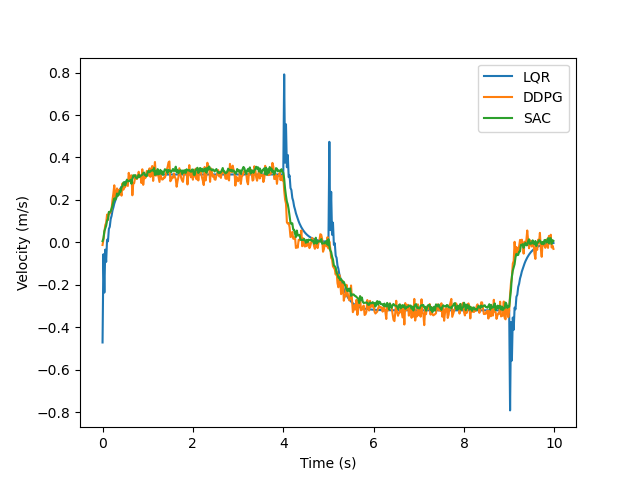
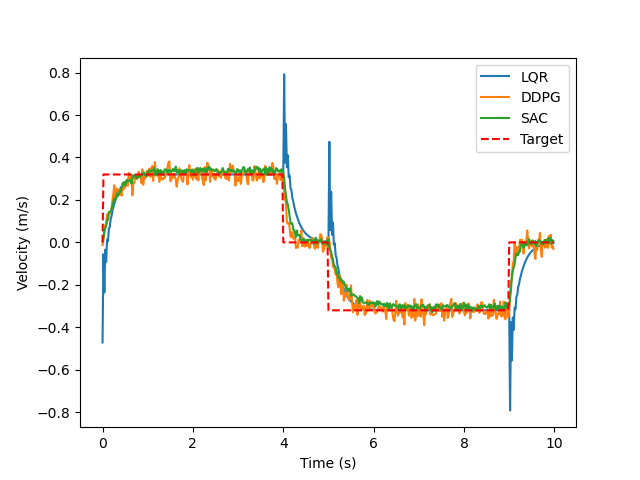
final data

diff --git a/python/train_agent.py b/python/train_agent.py
@@ -11,6 +11,9 @@ from src.utils.rand import RandomAgent
 from src.utils.logger import Logger
 np.set_printoptions(precision=3)
 
+FILENAME = "data/train/velocity_ddpg.csv"
+# FILENAME = None
+
 class GymTrainer():
 	def __init__(self, make_env, agent_cls, config):
 		ports = list(range(1+config.rank, config.split if config.rank==0 else config.size))
@@ -24,8 +27,10 @@ class GymTrainer():
 		
 	def start(self):
 		if self.config.trial:
-			for i in range(10):
-				self.trial(agent=self.agent.load_model(self.checkpoint), fname=i)
+			# for i in range(10):
+			# 	self.trial(agent=self.agent.load_model(self.checkpoint), fname=i)
+			while True:
+				self.trial(agent=self.agent.load_model(self.checkpoint))
 		elif self.config.rank==self.config.split: self.evaluate()
 		elif self.config.rank==0: self.train()
 	
@@ -36,6 +41,12 @@ class GymTrainer():
 		if len(self.total_rewards) % self.config.SAVE_AT==0: agent.save_model(self.checkpoint)
 		if self.total_rewards[-1] >= max(self.total_rewards): agent.save_model(self.checkpoint, "best")
 		if self.logger: self.logger.log(f"Step: {step:7d}, Reward: {self.total_rewards[-1]:9.3f} [{np.std(rollouts):8.3f}], Avg: {np.mean(self.total_rewards, axis=0):9.3f} ({stats.get('eps',eps):.3f})", {**stats, **{f"{k}_e":v for k,v in agent.get_stats().items()}})
+		if FILENAME: 
+			with open(FILENAME, 'a+') as f:
+				# print(len(self.total_rewards))
+				# f.write(f"{step:d},{self.total_rewards[-1]:.3f},{np.mean(self.total_rewards, axis=0):.3f}\n")
+				f.write(f"{step:d},{np.mean(self.total_rewards, axis=0):.3f}\n")
+
 
 	def train(self):
 		states = self.envs.reset(train=True)
@@ -45,6 +56,7 @@ class GymTrainer():
 			self.agent.train(states, actions, next_states, rewards, dones)
 			if s%self.config.TRIAL_AT==0 and self.conn is None: self.trial(self.agent, s, self.config.EPS_MIN, self.agent.get_stats())
 			if s%self.envs.max_steps==0 and self.conn is not None: self.conn.broadcast([{"STEP": s, "PATH": self.agent.save_model(f"{s+1}_{SEED}", net="temp"), "DIR": f"{s+1}_{SEED}", "NET": "temp", "STATS": self.agent.get_stats()}])
+
 			states = next_states
 
 	def evaluate(self):

diff --git a/python/data/velocity_control/generate_plot_velocitycontrol.py b/python/data/velocity_control/generate_plot_velocitycontrol.py
@@ -2,11 +2,25 @@ import matplotlib.pyplot as plt
 import numpy as np
 
 FILENAMES = ["lqr_velocity_control.csv", "ddpg_velocity_control.csv", "sac_velocity_control.csv"]
-LEGEND = ["LQR", "DDPG", "SAC"]
+LEGEND = ["LQR", "DDPG", "SAC", "Target"]
 
 for fname in FILENAMES:
     data = np.genfromtxt(fname, delimiter=',')
     plt.plot(data[:,0], data[:,1])
+
+
+target = np.zeros((500,))
+for i in range(1,500):
+    if i < 200:
+        target[i] = 0.32
+    elif i < 250:
+        target[i] = 0
+    elif i < 450:
+        target[i] = -0.32
+    else:
+        target[i] = 0
+plt.plot(data[:,0], target, "r--")
+
 
 plt.legend(LEGEND)
 plt.xlabel("Time (s)")

diff --git a/python/data/train/generate_plot_train.py b/python/data/train/generate_plot_train.py
@@ -1,0 +1,18 @@
+import matplotlib.pyplot as plt
+import numpy as np
+
+FILENAME_BASE = "velocity"
+FILENAME_EXT = ["_ddpg.csv", "_sac.csv"]
+LEGEND = ["DDPG", "SAC"]
+COLORS = ["C1", "C2"]
+
+for i in range(2):
+    data = np.genfromtxt(FILENAME_BASE + FILENAME_EXT[i], delimiter=',')
+    plt.plot(data[:,0], data[:,1], color=COLORS[i])
+
+plt.legend(LEGEND)
+plt.xlabel("Training Step")
+plt.ylabel("Trial Reward")
+
+plt.savefig("train_" + FILENAME_BASE + ".png")
+plt.show()

diff --git a/python/data/train/a.py b/python/data/train/a.py
@@ -1,0 +1,4 @@
+with open("velocity_sac.csv", "a+") as f:
+    for line in f:
+        split = line.split(',')
+        f.write(split[0] + ',' + split[2])
